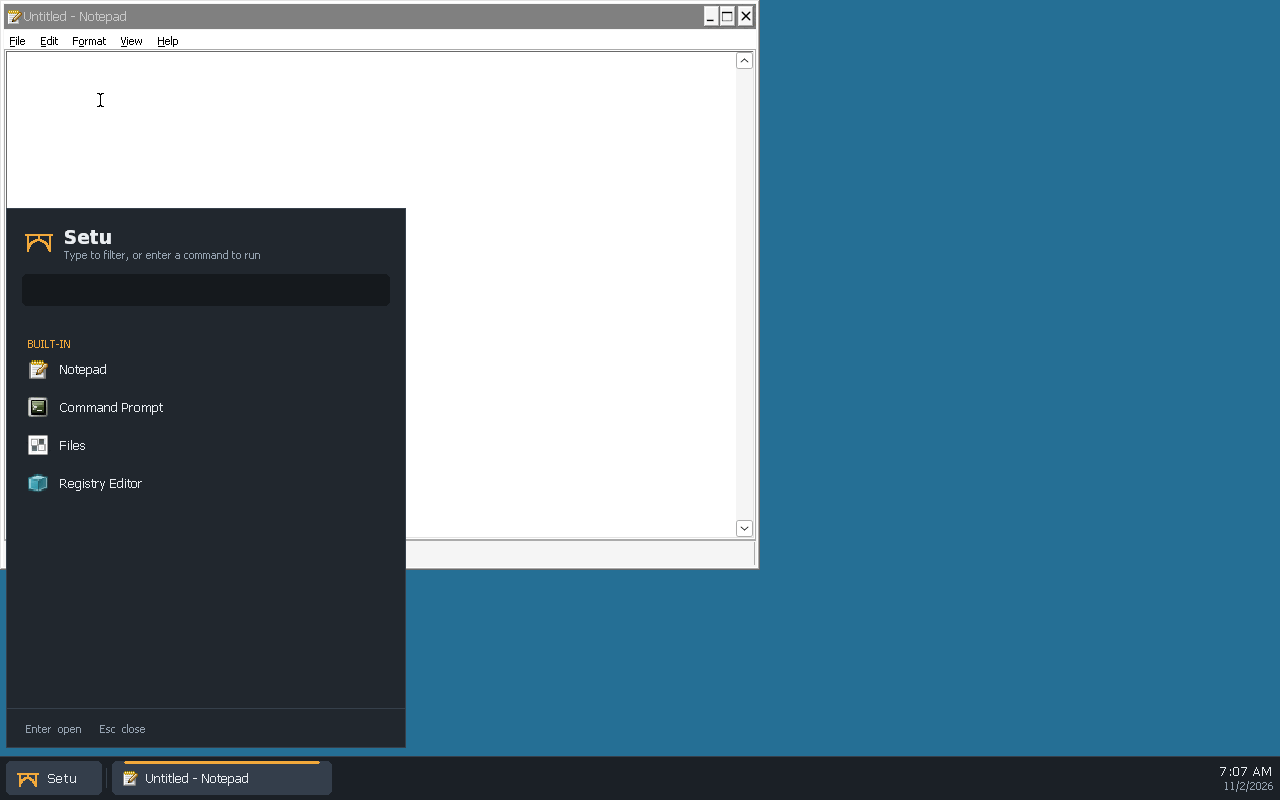
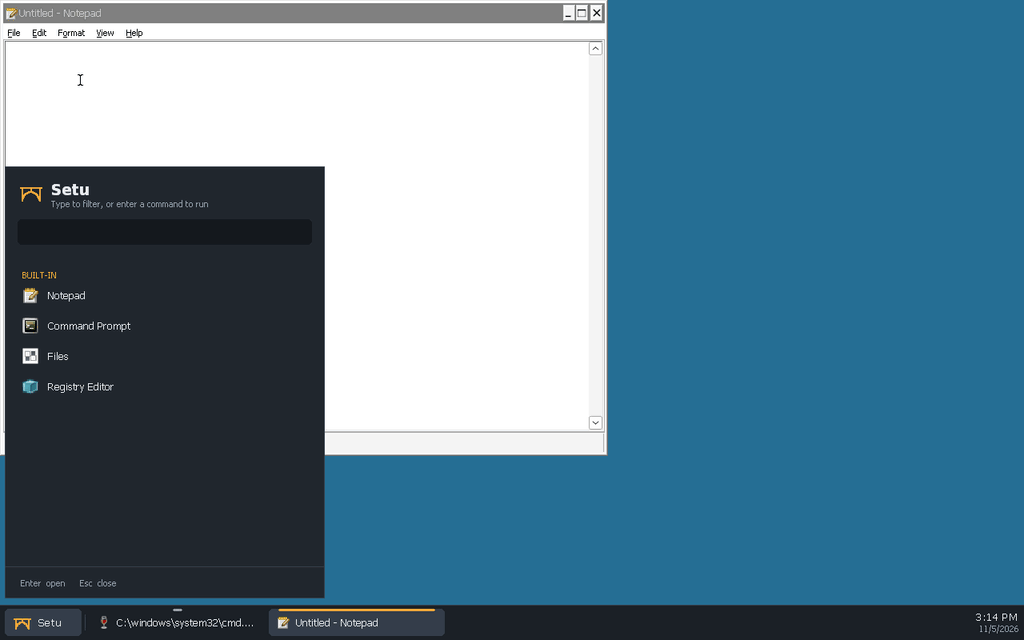
distro/tests: Add drives-smoke.sh for the casefold C: and drive letters.
It boots a snapshot and checks that lsattr -d shows the casefold flag
on the directory behind C:, that C:\Test\MixedCase.txt made with cmd is
found as c:\test\mixedcase.TXT and listed as MixedCase.txt, and that a
FAT USB stick hot-plugged through the QEMU monitor becomes D: (type,
label, dir D:), a second disk E:, and that unplugging removes the
letter while the other stays; then it runs msi-smoke.sh. The shared VM
helpers move to tests/lib.sh. docs/session-shell.png is regenerated
from a screendump of the current image, docs/drives.png is new.

Claude-Session: https://claude.ai/code/session_01FDkYpcDYFe3xe3wgGrwG4w

Changed region(s): [[0.0625, 0.9375, 0.4375, 1.0], [0.9375, 0.9375, 1.0, 0.9688], [0.0312, 0.4062, 0.0625, 0.4375]]

diff --git a/distro/README.md b/distro/README.md
@@ -20,7 +20,7 @@ taskbar and work area apply to all programs. labwc's config
 bindings and its root menu.
 
 ```sh
-distro/build-image.sh     # ~10 min; writes build/distro/setu-dev.qcow2 (~4 GB)
+distro/build-image.sh     # ~10 min; writes build/distro/setu-dev.qcow2 (~4.5 GB)
 distro/run-qemu.sh        # VNC 127.0.0.1:5911, serial log build/distro/run/serial.log
 ```
 
@@ -68,6 +68,37 @@ through by hand with `setu-probe click`: Welcome, licence, Custom Setup,
 Ready, Finish, and the files land in `C:\Program Files\7-Zip`. The wizard
 has cosmetic gaps (see below).
 
+### C: and drive letters: `distro/tests/drives-smoke.sh`
+
+The disk has three partitions: the ESP, the Linux root (`setu-root`, 6 GiB
+by default, `--root-size`) and **`C:`** (`setu-c`, the rest of `--size`,
+12G by default): an ext4 file system made with `-O casefold`, mounted at
+`/var/lib/setu/volumes/c`, with `+F` on its root, so the kernel looks names
+up without regard to case and keeps their case. The `setu` user's prefix
+links its `c:` straight to it. Other volumes get drive letters from the
+drive-letter service: the table `/run/setu/dosdevices` (C: fixed, the next
+free letter from D: for each volume udev reports), followed by every
+session. Details: [services/fs/README.md](../services/fs/README.md).
+
+`drives-smoke.sh` boots a snapshot (VNC :22, SSH 2234, run dir
+`build/distro/drives-smoke/run`) and checks: `lsattr -d` shows the casefold
+flag on the volume behind C:; `C:\Test\MixedCase.txt` made with cmd is found
+as `c:\test\mixedcase.TXT` and listed as `MixedCase.txt`; a FAT USB stick
+plugged in through the QEMU monitor (`drive_add` + `device_add
+usb-storage`) becomes `D:` (GetLogicalDrives, GetDriveType,
+GetVolumeInformation, `dir D:`), a second disk `E:`, and unplugging
+(`device_del`) removes the letter again. The disk images are made on the
+host without root (`mkfs.vfat -C` + `mcopy`, `mkfs.ext4 -d`). Then it runs
+`msi-smoke.sh`.
+
+```sh
+make -C shell
+distro/build-image.sh --shell build/shell/setu-shell.exe
+distro/tests/drives-smoke.sh      # [--msi FILE] [--no-msi]
+```
+
+![A Command Prompt on the Setu desktop listing C:\Test on the casefold C: volume, then D: (a FAT USB stick) and E: (an ext4 disk) plugged in through the QEMU monitor](docs/drives.png)
+
 ### How it builds without root
 
 The host has no sudo and no `newuidmap`, so `mmdebstrap --mode=unshare` and
@@ -91,8 +122,11 @@ from a fresh builder, so it is repeatable; artifacts live in `build/distro/`.
 | `rootfs/usr/local/bin/setu-session` | the session launcher (personality, desktop size, shell) |
 | `rootfs/etc/xdg/labwc/` | labwc config: no decorations, key bindings or root menu |
 | `rootfs/etc/systemd/system/setu-session.service` | tty1 autologin running `labwc -S setu-session` |
+| `../services/fs/` | drive-letter service and its units, installed by `build-image.sh` |
 | `run-qemu.sh` | boots the image (OVMF, virtio-gpu, VNC, serial log, monitor socket) |
 | `tests/msi-smoke.sh` | boots a snapshot, installs and runs an .msi over SSH, screendump |
+| `tests/drives-smoke.sh` | casefold C: and drive-letter hot-plug checks, then `msi-smoke.sh` |
+| `tests/lib.sh` | helpers shared by the smoke tests (boot, SSH, wine in the session, screendump) |
 | `docs/` | screenshots of the booted session |
 
 ![The dev image with --shell: the Setu taskbar and launcher with Notepad on the fullscreen personality desktop](docs/session-shell.png)
@@ -104,8 +138,8 @@ Without `--shell` the session runs notepad instead ([screenshot](docs/session.pn
 * `winedmo.so` (media decoding) links the build host's FFmpeg 6 sonames
   (`libavcodec.so.60`); Debian trixie ships FFmpeg 7, so it doesn't load in
   the image. Everything else in the personality resolves.
-* The root filesystem is plain ext4. Casefold for `C:` comes with the
-  installer.
+* The Linux root file system is plain ext4; only `C:` is casefolded. The
+  installer will make the same layout.
 * MSI wizard UI (7-Zip's): the Custom Setup page shows the dialog's
   placeholder text ("Neque porro quisquam...") instead of the selected
   feature's description and the install location, the Welcome/Finish pages
